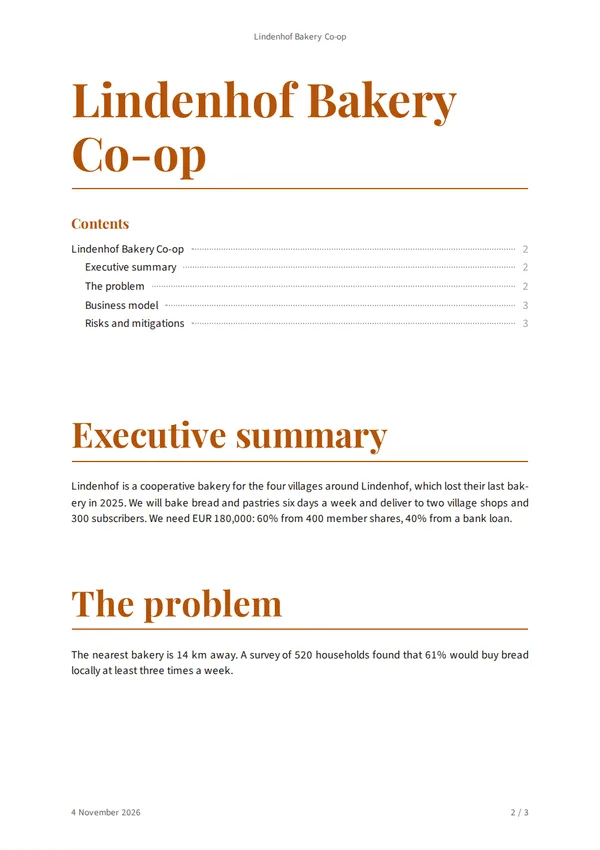
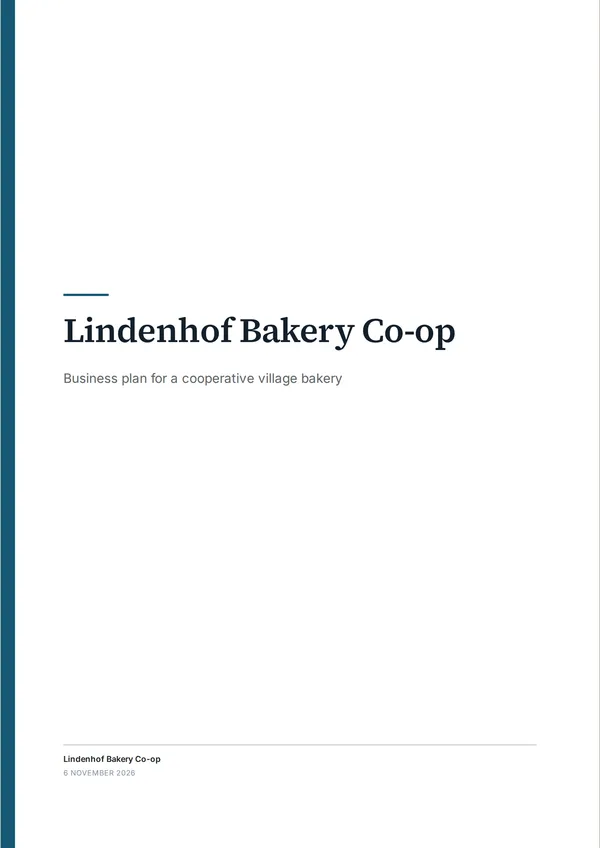
feat: retire the tech report and business report templates
Technical documentation and Corporate report replace them. Existing
documents keep their theme (a preset is copied into the document when it
is applied). The business plan and report template pages now open with
the Corporate report theme, the business plan card shows its new cover,
and the docs, the markdown-to-pdf page and the tour copy list ten presets.

diff --git a/shared/utils/themePresets.ts b/shared/utils/themePresets.ts
@@ -471,39 +471,6 @@ export const THEME_PRESETS: ThemePreset[] = [
     }
   },
 
-  // — Tech Report: tight IBM Plex Sans, cyan accent, dark code,
-  // underlined headings, brand-color table headers with white text +
-  // zebra rows.
-  {
-    id: 'tech',
-    theme: {
-      page: { size: 'A4', orientation: 'portrait', margin: 20 },
-      meta: { font: 'IBM Plex Mono' },
-      body: { font: 'IBM Plex Sans', size: 10, lineHeight: 1.4, textAlign: 'left', color: '#0f172a', background: '#FFFFFF', dropCap: false, firstLineIndent: false, paragraphSpacing: 0.7, hyphenate: false },
-      headings: { font: 'IBM Plex Sans', scale: 1.25, weight: 600, underline: true, color: '#0f172a', letterSpacing: 0, lineHeight: 1.2, spacingScale: 0.9, numbering: 'decimal', levels: {} },
-      color: { brand: '#0891b2', secondary: '#94a3b8' },
-      brand: { logoUrl: '', logoHeight: 48 },
-      layout: { columns: 1, columnGap: 8 },
-      header: { left: '{title}', center: '', right: '{date}', imageUrl: '', imagePosition: 'left', imageHeight: 12, rule: false },
-      footer: { left: '', center: '{page} / {pages}', right: '', imageUrl: '', imagePosition: 'center', imageHeight: 10, rule: false },
-      code: { theme: 'github-dark', fontSize: 8.5, font: 'IBM Plex Mono', background: 'auto', frame: 'none', wrap: true, lineNumbers: false },
-      tables: { headerBackground: 'brand', headerTextColor: 'auto', borders: 'horizontal', zebra: true, cellPadding: 6, captionPosition: 'above', captionLabel: false },
-      blocks: { imageRadius: 4, imageMaxWidth: 100, blockquoteStyle: 'background', hrStyle: 'rule', hrThickness: 2, figureLabel: false, referenceStyle: 'plain' },
-      mermaid: { theme: 'document' },
-      // Tech-report cyan-ish palette — note picks up the brand colour
-      // since cyan IS the report's voice. The rest stay traditional.
-      alerts: {
-        note: '#0891b2',
-        tip: '#1a7f37',
-        important: '#7c3aed',
-        warning: '#b45309',
-        caution: '#dc2626'
-      },
-      toc: { maxDepth: 4, showTitle: true, showPageNumbers: true, leaderStyle: 'dashed' },
-      cover: { enabled: false, layout: 'editorial', showTitle: true, showSubtitle: false, subtitle: '', showDate: true, showAuthors: false, authors: [], affiliations: [], rules: false, smallCaps: false, showLogo: false, align: 'center', titleSize: 2.4, subtitleSize: 1.15 }
-    }
-  },
-
   // — Technical documentation: printed developer docs (library guides,
   // API references, runbooks) in the O'Reilly / Sphinx-PDF tradition —
   // Source Serif 4 reading text, Source Sans 3 headings and furniture,
@@ -541,39 +508,6 @@ export const THEME_PRESETS: ThemePreset[] = [
       toc: { maxDepth: 2, showTitle: true, showPageNumbers: true, leaderStyle: 'dotted' },
       cover: { enabled: true, layout: 'title-block', showTitle: true, showSubtitle: true, subtitle: '', showDate: true, showAuthors: true, authors: [], affiliations: [], rules: false, smallCaps: false, showLogo: false, align: 'left', titleSize: 2, subtitleSize: 1.15 },
       customCss: TECH_DOCS_TEMPLATE_CSS
-    }
-  },
-
-  // — Business Report: serif headings (Playfair) over sans body
-  // (Source Sans), warm amber accent (also tinting headings), centered
-  // title in head, brand-color full-bordered tables with zebra rows.
-  {
-    id: 'business',
-    theme: {
-      page: { size: 'A4', orientation: 'portrait', margin: 25 },
-      meta: { font: 'Source Sans 3' },
-      body: { font: 'Source Sans 3', size: 11, lineHeight: 1.45, textAlign: 'justify', color: '#1c1917', background: '#FFFFFF', dropCap: false, firstLineIndent: false, paragraphSpacing: 0.8, hyphenate: true },
-      headings: { font: 'Playfair Display', scale: 1.25, weight: 700, underline: true, color: '#b45309', letterSpacing: 0, lineHeight: 1.15, spacingScale: 1.1, numbering: 'none', levels: {} },
-      color: { brand: '#b45309', secondary: '#a8a29e' },
-      brand: { logoUrl: '', logoHeight: 48 },
-      layout: { columns: 1, columnGap: 8 },
-      header: { left: '', center: '{title}', right: '', imageUrl: '', imagePosition: 'left', imageHeight: 12, rule: false },
-      footer: { left: '{date}', center: '', right: '{page} / {pages}', imageUrl: '', imagePosition: 'center', imageHeight: 10, rule: false },
-      code: { theme: 'github-light', fontSize: 9, font: 'IBM Plex Mono', background: 'auto', frame: 'rule', wrap: true, lineNumbers: false },
-      tables: { headerBackground: 'brand', headerTextColor: 'auto', borders: 'all', zebra: true, cellPadding: 8, captionPosition: 'above', captionLabel: false },
-      blocks: { imageRadius: 6, imageMaxWidth: 95, blockquoteStyle: 'background', hrStyle: 'rule', hrThickness: 1, figureLabel: false, referenceStyle: 'plain' },
-      mermaid: { theme: 'document' },
-      // Business-report warm palette — note shifts to a navy that
-      // pairs with the amber brand; warning picks up the brand amber.
-      alerts: {
-        note: '#1e3a8a',
-        tip: '#15803d',
-        important: '#7e22ce',
-        warning: '#b45309',
-        caution: '#991b1b'
-      },
-      toc: { maxDepth: 3, showTitle: true, showPageNumbers: true, leaderStyle: 'dotted' },
-      cover: { enabled: true, layout: 'editorial', showTitle: true, showSubtitle: true, subtitle: '', showDate: true, showAuthors: true, authors: [], affiliations: [], rules: false, smallCaps: false, showLogo: false, align: 'center', titleSize: 2.4, subtitleSize: 1.15 }
     }
   },
 

diff --git a/tests/integration/endpoints/themes.test.ts b/tests/integration/endpoints/themes.test.ts
@@ -305,14 +305,14 @@ describe('POST /api/docs — theme resolution order', () => {
     await setMemberRole(ws.workspaceId, admin.id, 'admin')
     const adminClient = await loggedInClient(admin.id)
     const academic = THEME_PRESETS.find(p => p.id === 'academic')!
-    const tech = THEME_PRESETS.find(p => p.id === 'tech')!
+    const novel = THEME_PRESETS.find(p => p.id === 'novel')!
     await adminClient.put(`/api/workspaces/${ws.workspaceId}`, { defaultTheme: academic.theme })
     const res = await adminClient.post('/api/docs', {
       workspaceId: ws.workspaceId,
-      themePreset: 'tech'
+      themePreset: 'novel'
     })
     const { docId } = await res.json() as { docId: string }
-    expect(await readDocTheme(docId)).toEqual(tech.theme)
+    expect(await readDocTheme(docId)).toEqual(novel.theme)
   })
 
   it('saved themeId resolves to that theme for the owner', async () => {
@@ -360,7 +360,7 @@ describe('POST /api/docs — theme resolution order', () => {
     await setMemberRole(ws.workspaceId, admin.id, 'admin')
     const adminClient = await loggedInClient(admin.id)
     const academic = THEME_PRESETS.find(p => p.id === 'academic')!
-    const tech = THEME_PRESETS.find(p => p.id === 'tech')!
+    const novel = THEME_PRESETS.find(p => p.id === 'novel')!
 
     await adminClient.put(`/api/workspaces/${ws.workspaceId}`, { defaultTheme: academic.theme })
     const { docId } = await (await adminClient.post('/api/docs', {
@@ -369,7 +369,7 @@ describe('POST /api/docs — theme resolution order', () => {
     expect(await readDocTheme(docId)).toEqual(academic.theme)
 
     // Change workspace default. Existing doc must keep academic.
-    await adminClient.put(`/api/workspaces/${ws.workspaceId}`, { defaultTheme: tech.theme })
+    await adminClient.put(`/api/workspaces/${ws.workspaceId}`, { defaultTheme: novel.theme })
     expect(await readDocTheme(docId)).toEqual(academic.theme)
   })
 })

diff --git a/tests/e2e/tour/editor.capture.ts b/tests/e2e/tour/editor.capture.ts
@@ -293,11 +293,11 @@ test('Tour: themes', async ({ page, editor, tour }) => {
   await previewTo(page, '.mermaid')
   const clip = await tour.clip('themes')
   await clip.frame(8)
-  await clip.click(editor.page.sidebar.theme, { after: () => expect(editor.page.theme.preset('business')).toBeVisible() })
+  await clip.click(editor.page.sidebar.theme, { after: () => expect(editor.page.theme.preset('business-report')).toBeVisible() })
   await clip.frame(3)
 
   // A different preset: the body pages restyle.
-  await clip.click(editor.page.theme.preset('business'), {
+  await clip.click(editor.page.theme.preset('business-report'), {
     after: async () => {
       await settlePreview(page, 1600)
       await editor.page.setCoverEnabled(false)

diff --git a/tests/unit/themeToCss.test.ts b/tests/unit/themeToCss.test.ts
@@ -465,9 +465,9 @@ describe('themeToCss — schema completeness invariants', () => {
       expect(css).toContain('--doc-secondary')
     }
   })
-  test('all 12 presets exist', () => {
+  test('all 10 presets exist', () => {
     expect(THEME_PRESETS.map(p => p.id)).toEqual([
-      'markoto', 'modern', 'academic', 'arxiv', 'ieee-conference', 'tech', 'tech-docs', 'business', 'business-report', 'novel', 'newsletter', 'resume'
+      'markoto', 'modern', 'academic', 'arxiv', 'ieee-conference', 'tech-docs', 'business-report', 'novel', 'newsletter', 'resume'
     ])
   })
   test('markoto is first preset (becomes default in new-doc dialog)', () => {

diff --git a/app/utils/AGENTS.md b/app/utils/AGENTS.md
@@ -34,7 +34,7 @@ Right pane shows discrete A4/Letter pages inside a sandboxed, **opaque-origin** 
 
 **Web fonts** (`shared/utils/themeFonts.ts`): 23 self-hosted families from exact-pinned static `@fontsource/*` packages — the 20 picker fonts + JetBrains Mono, IBM Plex Mono, Fraunces (app shell + presets) — plus 4 bundled families (see "Bundled fonts" below). **Documents use static cuts only** (weights 400–900 the package ships, `DOCUMENT_FONT_WEIGHTS`): Chromium/Skia embeds any font with an `fvar` table (and CFF outlines) as Type 3 glyph procedures, so variable fonts made Type 3 PDFs. The app shell keeps the variable cuts of Inter / JetBrains Mono / Fraunces (`@fontsource-variable/*`, the `ui` source; `/vendor/fonts/<slug>.variable.css`, linked by `app.vue` via `uiFontStylesheetUrls`) under their OWN family names `'Inter Variable'` … (`uiFontFamilyName`; `main.css` `--font-*` list them first) — under the theme's name they joined the static faces on the server render page (an app page) and won the matching, so the PDF was Type 3 again. Pinned by `tests/unit/vendorAssets.test.ts` + the real-renderer test "embeds no Type 3 font in any built-in preset" (`tests/integration/endpoints/docPdf.test.ts`). woff2 only, normal + italic, every unicode-range subset the package ships (a browser downloads only the subsets/styles a page uses), `font-display: swap`, renamed to the theme's family name (`'Inter'`, not `'Inter Variable'`), licence next to the files. `themeFontsImport(theme)` emits one `@import url('/vendor/fonts/<slug>.css')` per family the theme uses; a family outside the registry renders in the fallback stack. The app shell links Inter / JetBrains Mono / Fraunces the same way (`app.vue`); the theme panels link the picker fonts' stylesheets (only @font-face rules — files download when an item shows text in them). `@nuxt/fonts` is disabled (`ui.fonts: false` in `nuxt.config.ts`). Adding a family: install the Fontsource package exact, add a `font(...)` line.
 
-**Theme system (`shared/types/theme.ts:DocTheme`):** Per-doc JSONB in `documents.theme`, mirrored to `ymeta.theme`. Validated by `shared/utils/themeValidation.ts`. Editor panel: `ThemeEditorPanel.vue` (16 accordion sections). Presets in `shared/utils/themePresets.ts` (markoto, Modern, Academic Paper 2-col + title block, arXiv preprint, IEEE conference paper, Tech Report, Business Report, Novel, Newsletter, Resume). Building a new one: `docs/TEMPLATE-WORKFLOW.md`. Font picker from `shared/utils/themeFonts.ts` (23 self-hosted text fonts + the code fonts, see above). Header/footer tokens: `{title}`, `{section}`, `{date}`, `{page}`, `{pages}` — inserted at cursor via `data-slot`/`data-position`. User-saved themes shipped (CRUD via `/api/user/themes`). Page sizes A4 / A5 / Letter / Legal (`pageDimensions.ts`).
+**Theme system (`shared/types/theme.ts:DocTheme`):** Per-doc JSONB in `documents.theme`, mirrored to `ymeta.theme`. Validated by `shared/utils/themeValidation.ts`. Editor panel: `ThemeEditorPanel.vue` (16 accordion sections). Presets in `shared/utils/themePresets.ts` (markoto, Modern, Academic Paper 2-col + title block, arXiv preprint, IEEE conference paper, Technical documentation, Corporate report, Novel, Newsletter, Resume; "Tech Report" and "Business Report" were retired 2026-11 — documents keep the theme they were given, since a preset is copied into the document). Building a new one: `docs/TEMPLATE-WORKFLOW.md`. Font picker from `shared/utils/themeFonts.ts` (23 self-hosted text fonts + the code fonts, see above). Header/footer tokens: `{title}`, `{section}`, `{date}`, `{page}`, `{pages}` — inserted at cursor via `data-slot`/`data-position`. User-saved themes shipped (CRUD via `/api/user/themes`). Page sizes A4 / A5 / Letter / Legal (`pageDimensions.ts`).
 
 **Optional theme fields (added 2026-11, theme foundation PR + template variables + engine-structure batch).** `headings.numbering`, `headings.levels` (incl. `align`), `code.{font,background,frame,wrap,lineNumbers}`, `cover.{affiliations,rules,smallCaps,titleWeight}`, `header.rule` / `footer.rule`, `page.margin{Top,Right,Bottom,Left}`, `tables.{captionPosition,captionLabel}`, `blocks.{figureLabel,referenceStyle}` are `.optional()` in the schema, so themes stored before them stay valid (no migration). Every reader resolves them through `shared/utils/themeOptions.ts` (`resolveCodeOptions`, `headingNumbering`, `resolveTitleBlock`, `resolveHeadingLevel`, `runningRule`, `coverTitleWeight`, `resolvePageMargins`, `resolveCaptions`, `referenceStyle`, `withThemeDefaults`); presets + `defaultTheme` spell them out (pinned by `tests/unit/themeFoundation.test.ts`) — except the inheriting ones: `cover.titleWeight` (absent = "follow `headings.weight`") and the per-side margins (absent = `page.margin`), set only where they differ. The panel binds them via computed get/set with defaults, so OPENING the panel never rewrites a stored theme. New optional fields: same pattern.
 

diff --git a/content/marketing/en/templates/business-plan.md b/content/marketing/en/templates/business-plan.md
@@ -6,7 +6,7 @@ keywords:
   - markdown business plan
   - startup business plan template
   - business plan pdf template
-updated: '2026-11-04'
+updated: '2026-11-06'
 navGroup: templates
 navLabel: Business plan template
 navOrder: 50
@@ -16,9 +16,9 @@ navOrder: 50
 
 A business plan is read by people deciding whether to give you money, time or a loan. They look for the same things in the same order: what you sell, to whom, why now, how you make money, and what could go wrong. This template has a section for each, with a short brief under every heading.
 
-Below is the start of a plan for a made-up company, in the **Business Report** theme. The first page is the cover; scroll the preview for the text.
+Below is the start of a plan for a made-up company, in the **Corporate report** theme. The first page is the cover; scroll the preview for the text.
 
-::try-it{theme="business" height="760"}
+::try-it{theme="business-report" height="760"}
 ---
 source: |
   # Lindenhof Bakery Co-op
@@ -52,8 +52,8 @@ source: |
 ---
 ::
 
-::cta{title="Write your plan from this template." label="Use this template" template="business-plan" theme="business" secondary-label="All templates" secondary-to="/templates"}
-Opens the new-document dialog with the business plan template and the Business Report theme selected. It starts with the same headings and a short brief in each section.
+::cta{title="Write your plan from this template." label="Use this template" template="business-plan" theme="business-report" secondary-label="All templates" secondary-to="/templates"}
+Opens the new-document dialog with the business plan template and the Corporate report theme selected. It starts with the same headings and a short brief in each section.
 ::
 
 ## What's in it
@@ -74,7 +74,7 @@ Founders writing a plan for a bank, an investor, a grant or a co-op meeting, and
 
 ## Making it read well
 
-- **Cover page.** The Business Report theme starts with a cover: title, subtitle, date and authors. Fill them in under **Cover page** in the document theme.
+- **Cover page.** The Corporate report theme starts with a cover: title, subtitle, date and authors. Fill them in under **Cover page** in the document theme.
 - **Tables for numbers.** Right-align number columns with `--:` in the table's second line, as in the example.
 - **Charts.** A Mermaid `xychart-beta` block draws a bar or line chart from numbers you type into the source.
 - **Call out one risk.** An alert block (`> [!WARNING]`) stands out on the page without extra formatting.
@@ -97,6 +97,6 @@ items:
 ---
 ::
 
-::cta{title="Your plan, as a document people can read." label="Use this template" template="business-plan" theme="business"}
+::cta{title="Your plan, as a document people can read." label="Use this template" template="business-plan" theme="business-report"}
 Free on markoto.app, no sign-up needed.
 ::

diff --git a/content/marketing/en/templates/report.md b/content/marketing/en/templates/report.md
@@ -7,7 +7,7 @@ keywords:
   - quarterly report template
   - project report markdown
   - markdown to pdf report
-updated: '2026-11-04'
+updated: '2026-11-06'
 navGroup: templates
 navLabel: Report template
 navOrder: 10
@@ -34,8 +34,8 @@ pages:
 ---
 ::
 
-::cta{title="Start your report from this template." label="Use this template" template="report" theme="business" secondary-label="All templates" secondary-to="/templates"}
-Opens the new-document dialog with the report template and the Business Report theme, which has a cover page. The template is the outline of the report above, with a short brief in each section.
+::cta{title="Start your report from this template." label="Use this template" template="report" theme="business-report" secondary-label="All templates" secondary-to="/templates"}
+Opens the new-document dialog with the report template and the Corporate report theme, which has a cover page. The template is the outline of the report above, with a short brief in each section.
 ::
 
 ## What's in it
@@ -57,7 +57,7 @@ The briefs under the headings are Markdown comments: visible in the editor and t
 - **Alerts** (`> [!NOTE]`, `> [!WARNING]`) for remarks that must stand out.
 - **A custom theme**: IBM Plex Sans for the text, Source Serif 4 for the headings, a running header, "page / pages" in the footer and a few lines of custom CSS for the figures.
 
-The template opens with the built-in **Business Report** theme instead. Change fonts, colours, the header and the footer in the document theme, and save the result as your own preset to reuse it for the next report.
+The template opens with the built-in **Corporate report** theme instead. Change fonts, colours, the header and the footer in the document theme, and save the result as your own preset to reuse it for the next report.
 
 ## Who it's for
 
@@ -79,6 +79,6 @@ items:
 ---
 ::
 
-::cta{title="Write the report once, print it every quarter." label="Use this template" template="report" theme="business"}
+::cta{title="Write the report once, print it every quarter." label="Use this template" template="report" theme="business-report"}
 Free on markoto.app, no sign-up needed.
 ::

diff --git a/content/docs/themes/pick-a-theme.md b/content/docs/themes/pick-a-theme.md
@@ -26,7 +26,7 @@ You picked a built-in preset, watched the entire document re-skin
 in place, then turned on a cover sheet that suppresses the running
 header and footer on page 1.
 
-The nine presets cover most use cases:
+The ten presets cover most use cases:
 
 - **markoto** — the default. Fraunces editorial headings on Inter
   body, plain white paper, vermillion accents, asterism scene breaks.
@@ -41,10 +41,17 @@ The nine presets cover most use cases:
   numbered bold sections and an "A Preprint" running head over a thin
   rule. Start the document with an *Abstract* section and mark the
   references `# References {.unnumbered}`.
-- **Tech Report** — IBM Plex Sans, cyan brand color, dark code
-  blocks, numbered sections, brand-colored table headers.
-- **Business Report** — Playfair headings over Source Sans body,
-  warm amber accent, centered title in the running head.
+- **IEEE conference paper** — the IEEEtran conference look: US Letter,
+  two columns of Times 10 pt, centred small-caps sections with Roman
+  numerals, a 24 pt title over side-by-side author blocks and the
+  run-in abstract in the first column.
+- **Technical documentation** — Source Serif reading text with Source
+  Sans headings, section numbers hanging in the margin, light framed
+  code blocks with file titles, the current chapter in the running
+  head.
+- **Corporate report** — a cover page with a petrol band, Source Serif
+  headings over Inter, finance-style tables with ruled totals, pull
+  quotes and a quiet footer rule.
 - **Novel** — Crimson Text serif, deep violet accent, generous
   line-height, drop cap on page 1.
 - **Newsletter** — two-column Karla over PT Serif, green accent,

diff --git a/content/marketing/en/markdown-to-pdf.md b/content/marketing/en/markdown-to-pdf.md
@@ -7,7 +7,7 @@ keywords:
   - md to pdf
   - markdown pdf export with page numbers
   - markdown to pdf with table of contents
-updated: '2026-11-04'
+updated: '2026-11-06'
 navGroup: use-cases
 navLabel: Markdown to PDF
 navOrder: 10
@@ -80,7 +80,7 @@ A converter turns Markdown into one long HTML page and prints it. markoto lays t
 
 ## Change the look without touching the text
 
-Every document has a theme: fonts, colours, margins, columns, tables, the header, the footer and the cover. Eight presets are built in: markoto, Modern, Academic Paper (two columns), Tech Report, Business Report, Novel, Newsletter and Resume. Pick one, then change any detail. The preview and the PDF use the same theme. When no setting does what you want, you can add your own [CSS](/docs/themes/custom-css) to a document.
+Every document has a theme: fonts, colours, margins, columns, tables, the header, the footer and the cover. Ten presets are built in: markoto, Modern, Academic Paper (two columns), arXiv preprint, IEEE conference paper, Technical documentation, Corporate report, Novel, Newsletter and Resume. Pick one, then change any detail. The preview and the PDF use the same theme. When no setting does what you want, you can add your own [CSS](/docs/themes/custom-css) to a document.
 
 ::flow-strip{id="pick-a-theme" frames="05,14"}
 ---

diff --git a/app/AGENTS.md b/app/AGENTS.md
@@ -136,7 +136,7 @@ JS, and why: lazy-mounting far-away stage scenes; playing the on-stage video (`T
 
 **PDF fan-out** (share scene): part of the scene's rest state — `TourVisual` opens it ~1.6 s after `mk-tour:rest` for that scene (the share dialog in the video is seen first), closes on `mk-tour:depart`; inline (phones / static) when the figure is ≥ 60 % in view. CSS transitions, staggered per page; reduced motion shows it fanned.
 
-**Copy:** `tour.*` in all six locales — plain and concrete for people who already want a Markdown editor; no slogans, nothing the product doesn't do (eight theme presets: `shared/utils/themePresets.ts`). `<div class="mk-tour" :lang>` carries the locale so Japanese/Chinese headings break at phrases (`word-break: auto-phrase`).
+**Copy:** `tour.*` in all six locales — plain and concrete for people who already want a Markdown editor; no slogans, nothing the product doesn't do (ten theme presets: `shared/utils/themePresets.ts` — keep the count in `tour.scenes.themes.body` in step). `<div class="mk-tour" :lang>` carries the locale so Japanese/Chinese headings break at phrases (`word-break: auto-phrase`).
 
 ## SEO (`shared/seo/`, SEO-1)
 

diff --git a/content/docs/themes/save-preset.md b/content/docs/themes/save-preset.md
@@ -8,8 +8,9 @@ updated: '2026-11-06'
 
 # Save your custom theme as a preset
 
-The nine built-in theme presets (markoto, Modern, Academic Paper, arXiv
-preprint, Tech Report, Business Report, Novel, Newsletter and Resume) cover the common cases. Once you've customised one to
+The ten built-in theme presets (markoto, Modern, Academic Paper, arXiv
+preprint, IEEE conference paper, Technical documentation, Corporate
+report, Novel, Newsletter and Resume) cover the common cases. Once you've customised one to
 your liking, save it as a personal preset and it shows up in the
 preset picker on every future doc.
 
